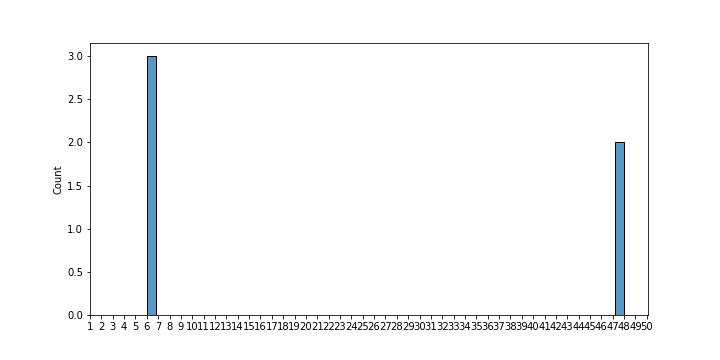
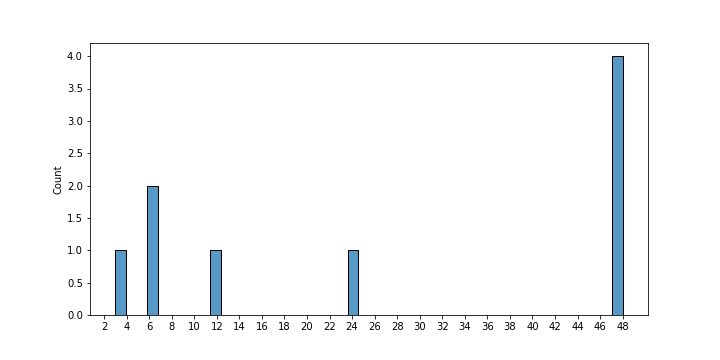
finish generation

diff --git a/utils/plot_compression.py b/utils/plot_compression.py
@@ -2,13 +2,15 @@ import matplotlib.pyplot as plt
 import seaborn as sns
 import numpy as np
 
-def plot_histo(data, filename, bins=50):
+def plot_histo(data, filename, visible_bins=20):
     '''
     plot a histogram of cube distributions.
     '''
     plt.figure(figsize=(10,5))
-    plot = sns.histplot(data, bins=bins)
-    plt.xticks([i for i in range(1, 51, 1)])
+    nr_of_bins = max(data)
+    plot = sns.histplot(data, bins=nr_of_bins)
+    x_ticks = [i for i in range(2, nr_of_bins+1, max(nr_of_bins//visible_bins, 1))]
+    plt.xticks(x_ticks)
     
     plt.savefig(filename)
     plt.show()
